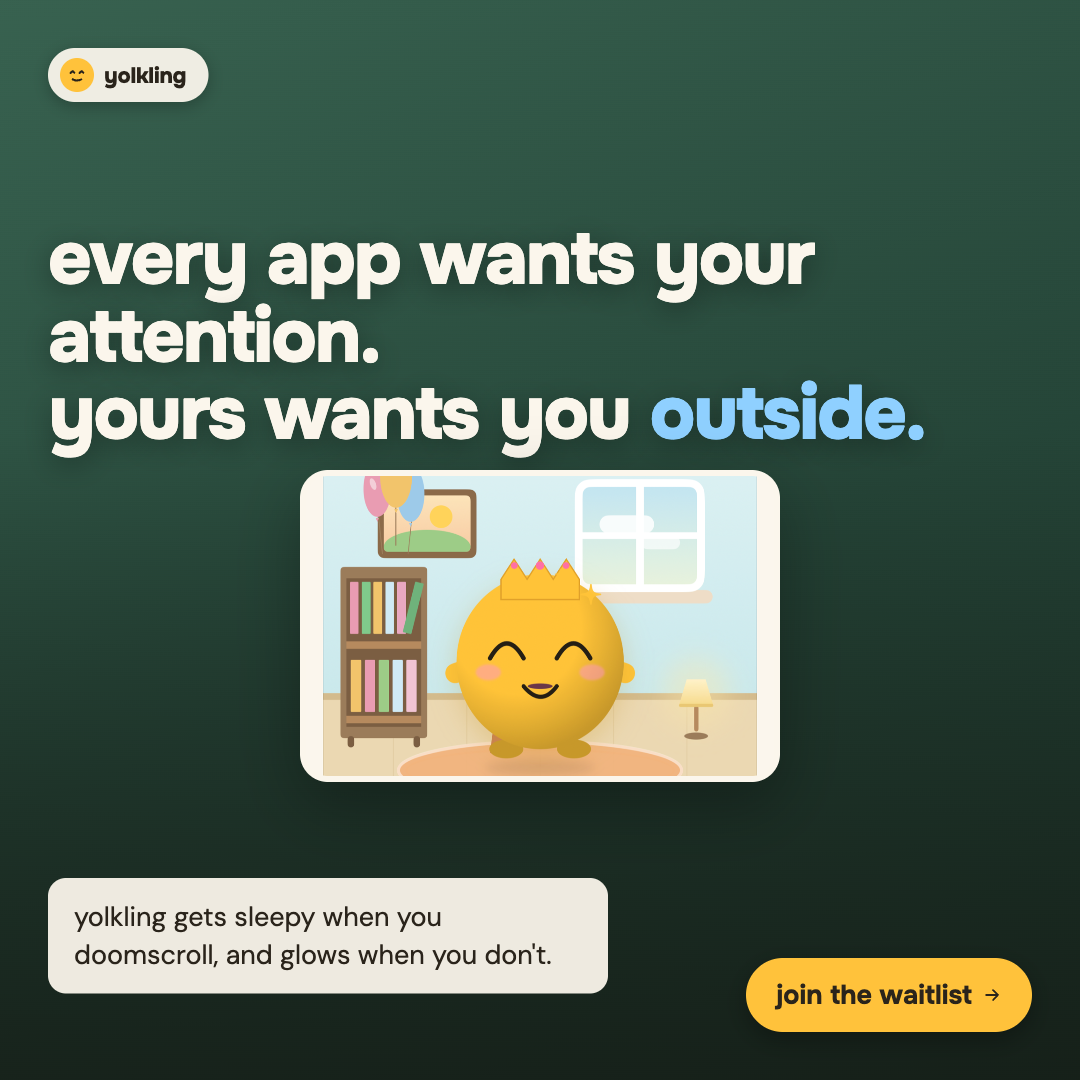
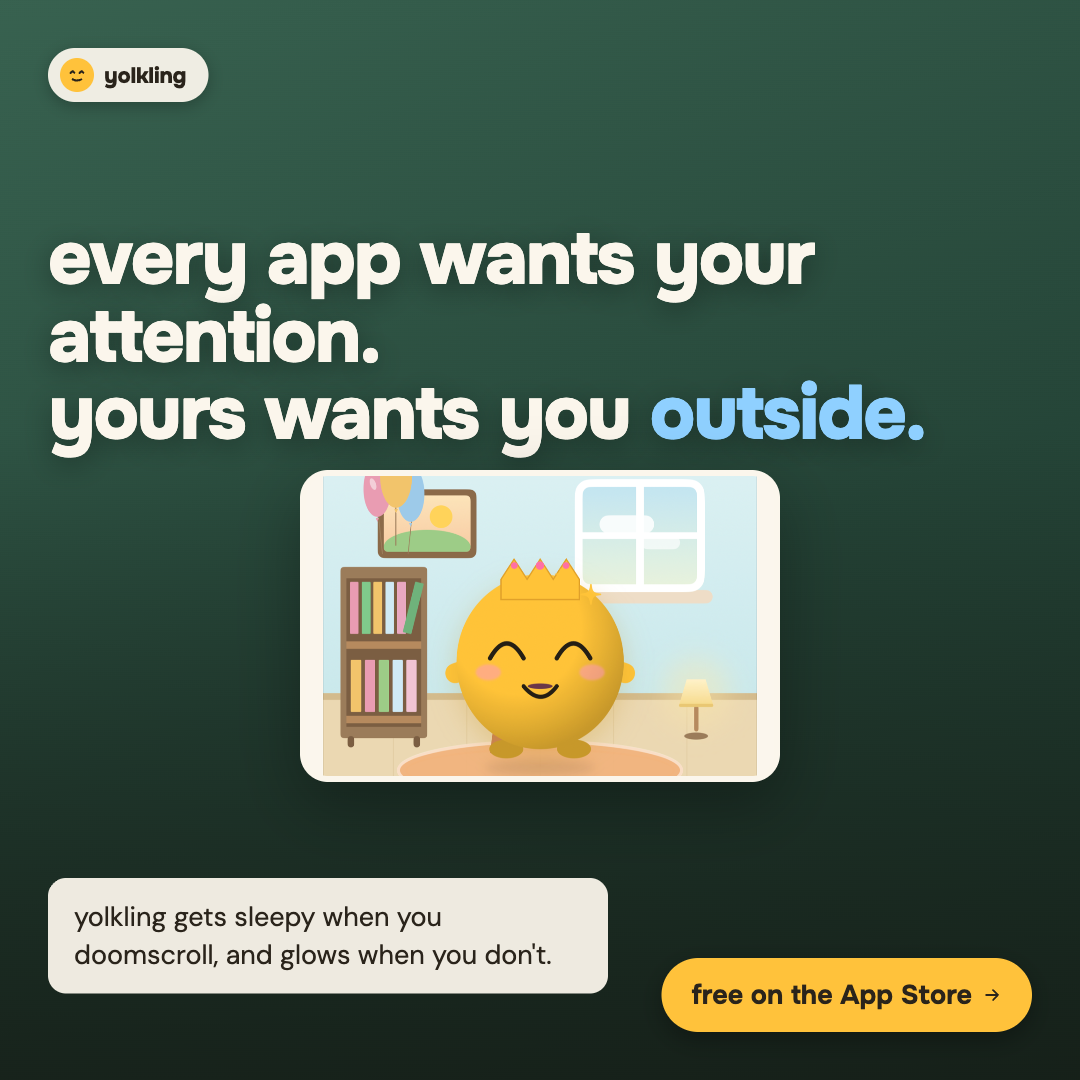
Ad creatives: launch CTAs (free on the App Store, hatch yours)

Changed region(s): [[0.6111, 0.8861, 0.9167, 0.9778]]

diff --git a/marketing/ads/ad-b-contrast.html b/marketing/ads/ad-b-contrast.html
@@ -143,7 +143,7 @@
     <div class="subhead-pill">yolkling gets sleepy when you doomscroll, and glows when you don't.</div>
 
     <div class="cta-pill">
-      join the waitlist
+      free on the App Store
       <svg width="20" height="20" viewBox="0 0 20 20" fill="none"><path d="M4 10h12M11 5l5 5-5 5" stroke="#2A241B" stroke-width="2" stroke-linecap="round" stroke-linejoin="round"/></svg>
     </div>
   </div>

diff --git a/marketing/ads/ad-a-hatch.html b/marketing/ads/ad-a-hatch.html
@@ -141,7 +141,7 @@
     <div class="subhead-pill">every yolkling is one of a kind. yours hasn't hatched yet.</div>
 
     <div class="cta-pill">
-      claim my egg
+      hatch yours
       <svg width="20" height="20" viewBox="0 0 20 20" fill="none"><path d="M4 10h12M11 5l5 5-5 5" stroke="#2A241B" stroke-width="2" stroke-linecap="round" stroke-linejoin="round"/></svg>
     </div>
   </div>
